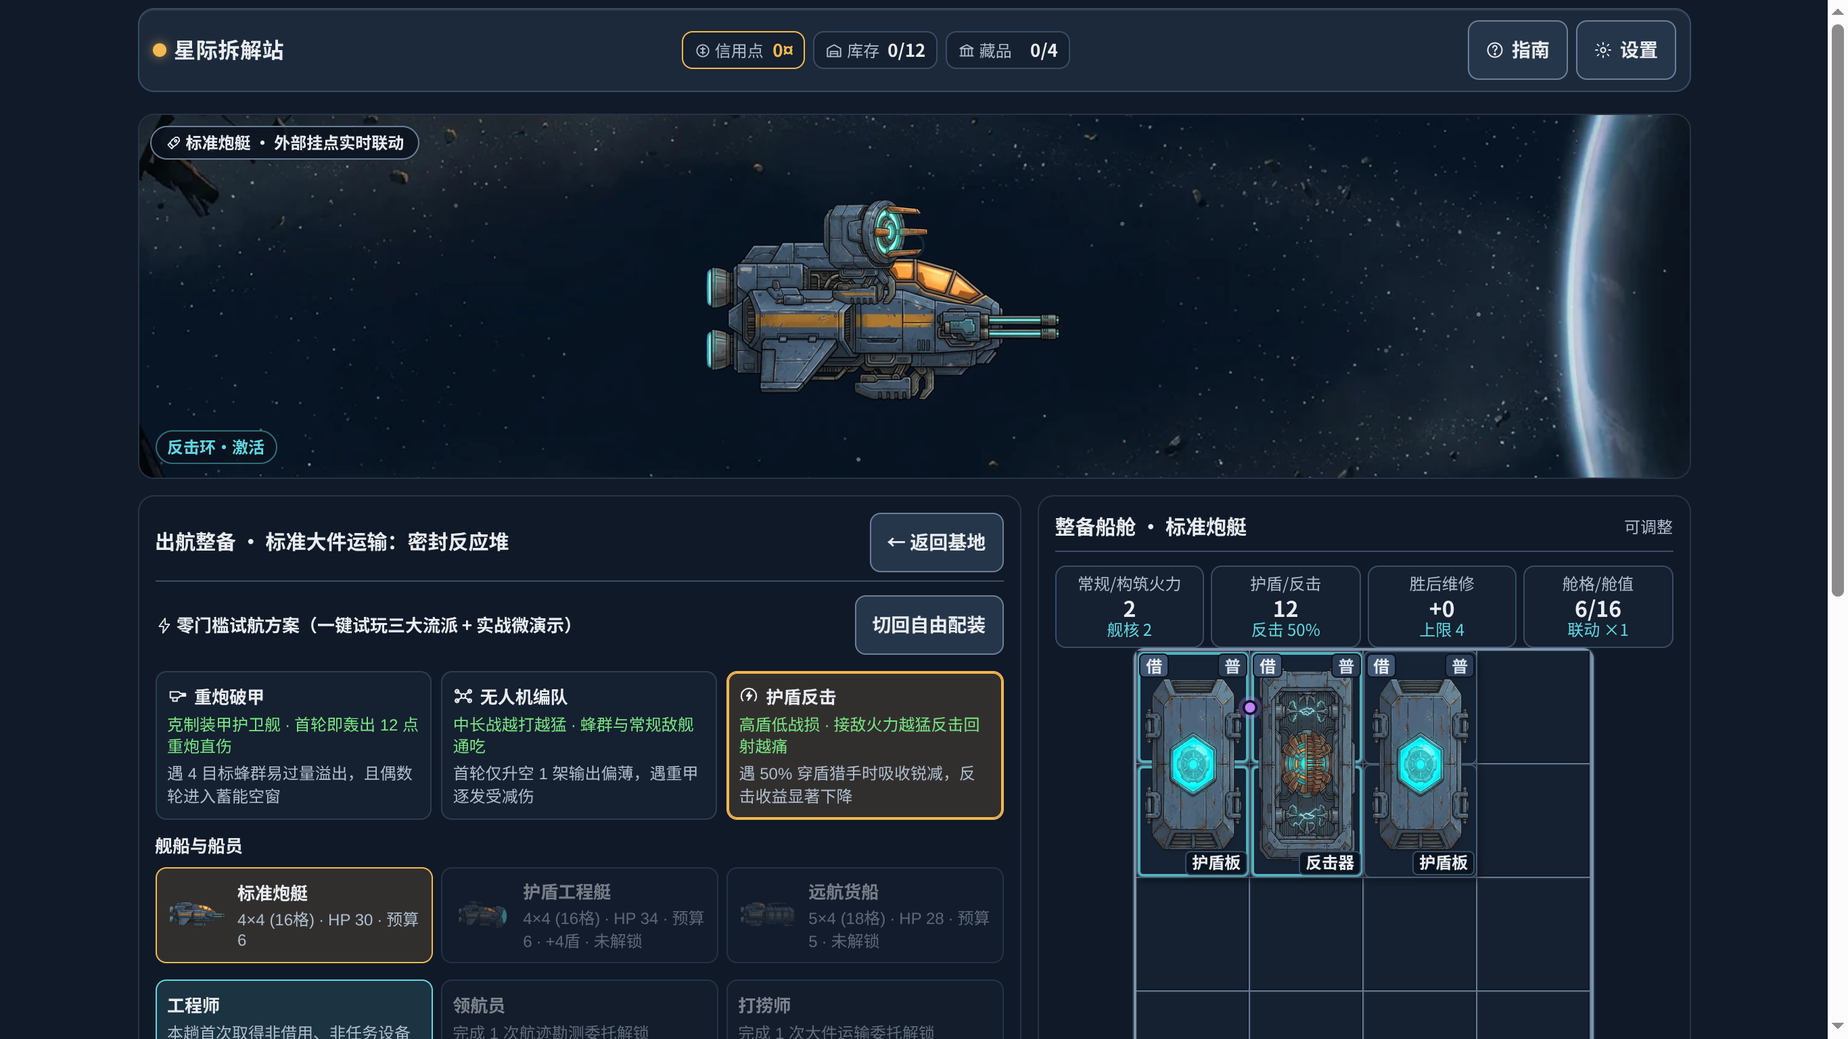
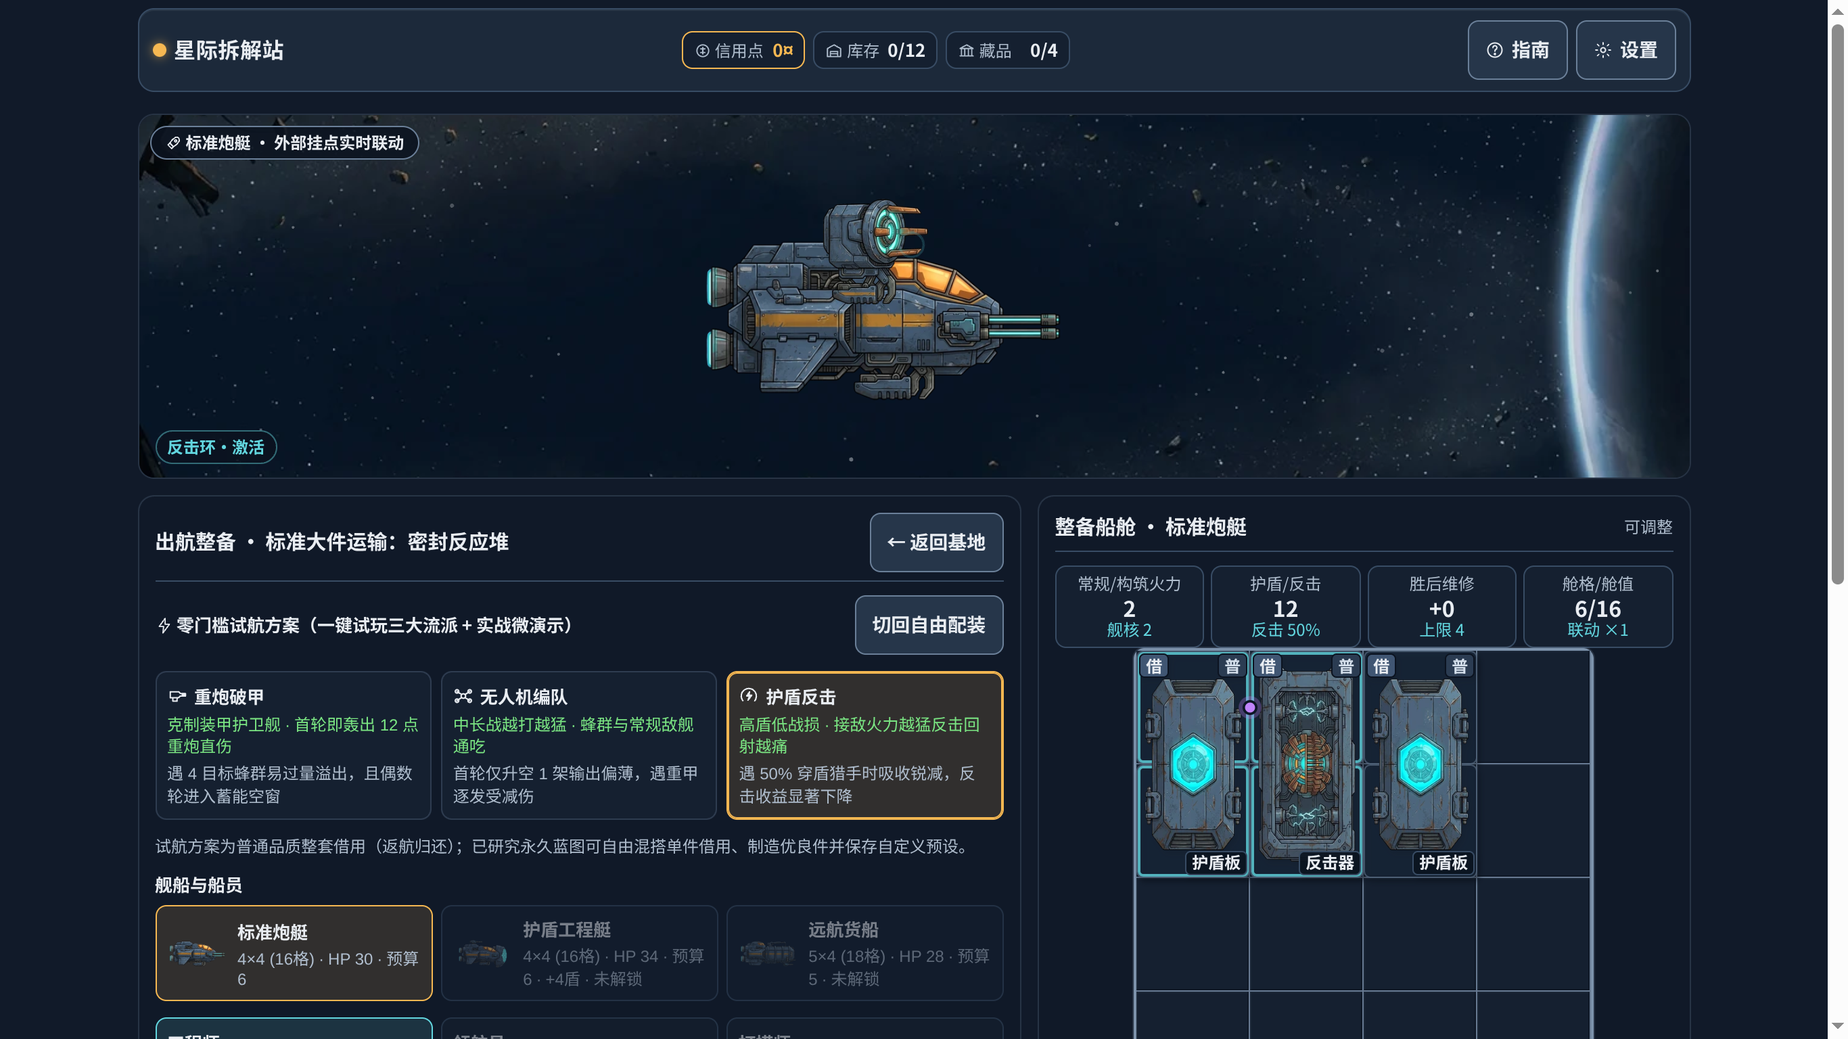
docs(v2-polish): update acceptance report, 24/24 E2E checks, asset clarity diagnostics, and 17 2x DPR screenshots

Changed region(s): [[0.0622, 0.7812, 0.5289, 1.0], [0.4356, 0.1875, 0.56, 0.3438], [0.9956, 0.5625, 1.0, 0.5938]]

diff --git a/docs/reviews/2026-11-21-v2-polish/V2体验深化与精修验收报告.md b/docs/reviews/2026-11-21-v2-polish/V2体验深化与精修验收报告.md
@@ -2,7 +2,7 @@
 
 - **验收日期**：2026-11-21（UTC+8 / 2026-11-22 UTC）
 - **依据方案**：[V2 体验深化与美术精修优化方案](../../星际拆解站-V2体验深化与美术精修优化方案.md)
-- **实施分支**：`feat/v2-polish-experience`（基于 `main@936facd` 推进，验收后合并回 `main`）
+- **实施分支**：`feat/v2-polish-experience` & `polish/v2-deep-completion`（验收后全部 cleanly 合并回 `main`）
 - **历史报告保护**：完整保留 [2026-11-21](../2026-11-21/)、[2026-11-21-fix](../2026-11-21-fix/) 与 [2026-11-21-v2](../2026-11-21-v2/) 全部历史文件与检查数据，未做任何改写。
 
 ---
@@ -11,60 +11,60 @@
 
 | 痛点维度 | 整改前（`main@936facd`） | 整改后（本次交付） | 验证证据 |
 | --- | --- | --- | --- |
-| **连续出航稳定性** | 连续第二趟进入战斗偶尔停在「第 0 回合」不再推进 | 修复 `V2CombatScene` / `CombatScene` 的 `SHUTDOWN` 事件精灵与定时句柄泄漏，连续 3 趟出航均稳定推进 | `E07_ConsecutiveRun1/2/3_NoRound0Freeze` 通过；`tests/v2-polish.test.ts` 通过 |
+| **连续出航稳定性与资源容错** | 连续第二趟进入战斗偶尔停在「第 0 回合」；资源加载失败无恢复提示 | 修复 `V2CombatScene` / `CombatScene` 的 `SHUTDOWN` 精灵句柄泄漏；全场景接入 `loaderror` 监听与「重试加载」可恢复横幅 | `E07_ConsecutiveRun1/2/3_NoRound0Freeze` 通过；`tests/v2-polish.test.ts` 通过 |
 | **暂存区溢出** | `2×3` 反应堆与 `1×3` / `L3` / `T4` 部件在暂存区撑破卡片边界 | 暂存区卡片固定 `44×44` 缩略图容器 + `object-fit: contain` + 横向安全边界约束 | `E10_StagingCardBounds_2x3Reactor`（`card 215×74`, `thumb 44×44`, `fitsList=true`） |
-| **画布清晰度（DPR）** | `Phaser.Scale.NONE` 仅按 `1×` CSS 像素渲染，高清屏与高倍屏发糊 | `PhaserHost` 按 `min(2, devicePixelRatio)` 动态分配真实物理像素并缩放相机（低画质模式锁 `1×`），并修复 `centerOn` 相机偏移 | `E03_Retina2xDprCanvas`（`backing=2292px` vs `CSS=1146px` @ `DPR=2`）；截图 `02`/`07`/`10` |
-| **主界面像工作台** | 基地画布被压缩在窄栏上方，周边堆满委托/建筑/图鉴/日志长表单 | 基地升级为 **88% 视口全幅主舞台** + 顶部 3 栏精简 HUD + 悬浮停机坪主 CTA + 底部 4 个抽屉式管理入口；彻底清除 `V2`/`MVP` 等开发术语 | `E02_BaseHeroProportion`（88% 视口）；`E04_ZeroDevJargonOnBase`；截图 `02_base_hero_1366x768.png` |
+| **画布清晰度（DPR）** | `Phaser.Scale.NONE` 仅按 `1×` CSS 像素渲染，高清屏与高倍屏发糊 | `PhaserHost` 按 `min(2, devicePixelRatio)` 分配物理像素（低画质锁 `1×`），修复 `centerOn` 相机偏移并完成 §10.4 清晰度链路诊断 | `E03_Retina2xDprCanvas`（`2292×1344` @ `DPR=2`）；`E19_AssetClarityDiagnostics` 9/9 通过 |
+| **主界面像工作台** | 基地画布被压缩在窄栏上方，周边堆满委托/建筑/图鉴/日志长表单 | 基地升级为 **88% 视口全幅主舞台** + 顶部 3 栏 HUD + 站内建筑与泊位舰船直点交互 + 工作台「作业中」暖光态 + 返航双段机械臂真实卸货 + 底部 4 抽屉入口；零开发术语 | `E02_BaseHeroProportion`（88%）；`E04_ZeroDevJargonOnBase`；截图 `02_base_hero_1366x768.png` |
+| **拼装屏与航图屏信息冗余** | 拼装阶段上方大图把暂存区挤出首屏；航图重复展示节点与切换栏；手机需横滚 | **拼装屏默认收起大图**并内置外挂状态条（一键展开），棋盘+暂存区+3 行战术差值 100% 首屏可见；**航图改为双线并排对比卡**（消除重复切换栏），手机默认 **接下来 2 层聚焦视图**（零横滚） | `E15_MapSideBySideCompareCards`、`E16_MobileMapNext2LayersFocus`、`E17_ArrangeCargoHeroAboveFold`；截图 `06`/`09`/`16` |
 | **首局体验单薄、难感知流派差异** | 玩家需先攒信用点与研究蓝图才能体验重炮/无人机/反击三流派 | 新增 **三套零门槛试航方案**（`重炮破甲` / `无人机编队` / `护盾反击`）+ 5 秒可跳过实战微演示 + 标题页 **4 站精华试玩**（独立沙盒不改正式存档） | `E01_TitleShowcaseEntry`、`E05_TrialHeavyModularMounts`、`E12_ShowcaseIsolation`；截图 `01`/`03`/`03b`/`04`/`05` |
-| **装配件与舰体视觉脱节** | 船舱怎么拼装，战斗中的舰船外观与开火点位几乎不变 | 制作 5 件独立手绘外挂模块（激光炮塔/磁轨重炮/机库荚舱/反击弧环/外挂货架），由 `deriveShipVisualSpec(bay)` 唯一真源驱动挂载、硬点开火、炮管后坐、反击回流电弧与护盾过载态 | `03b`/`04`/`05`/`07`/`10` 截图；`tests/v2-polish.test.ts` 视觉映射单测 |
-| **拼装缺少即时战果反馈** | 仅显示抽象属性，难以判断“换位/贴邻/拆装”是否值得 | 选中设备或预览替换时即时运行同源战斗模拟，展示不超过 3 行的 **战术差值对比条**（联动 / 相对卸下或换位收益 / 舱位余量） | `E06_TacticalDeltaComparator`；`tests/v2-polish.test.ts` |
+| **装配件与舰体视觉脱节** | 船舱怎么拼装，战斗中的舰船外观与开火点位几乎不变 | 制作 5 件独立手绘外挂模块，由 `deriveShipVisualSpec(bay)` 唯一真源驱动挂载、硬点开火、炮管后坐、**联动导通脉动+「联动」标、机库开门闪光、反击回流电弧**以及敌舰三态（常态/重甲蓄能/受损冒烟闪灯） | `03b`/`04`/`05`/`07`/`10` 截图；`tests/v2-polish.test.ts` 视觉映射单测 |
+| **拼装缺少即时战果反馈** | 仅显示抽象属性，难以判断“换位/贴邻/拆装”是否值得 | 选中设备或奖励候选时即时运行同源战斗模拟，展示不超过 3 行的 **战术差值对比条**（联动 / 收益 / 舱位） | `E06_TacticalDeltaComparator`；截图 `09_arrange_staging_bounds_1366x768.png` |
 | **废船打捞偏文本按钮** | 废船节点为纵向选项列表 | 升级为 **全幅残骸剖面三热点探索**（左 `军械舱` / 中 `反应舱` +2 燃料或 +8 耐久 / 右 `货舱`），热点直接落于对应舱室并带底部决策栏 | `E09_WreckThreeHotspots`；截图 `08_wreck_3hotspot_1366x768.png` |
-| **战斗画面占比偏小** | 战斗画布被双栏面板挤占 | 战斗进入 **88% 视口宽银幕主舞台**，顶部极简浮动 HUD（含「查看船舱」弹层、倍速、跳过），零遮挡呈现敌我火力交锋 | `E08_CombatHeroViewport`；截图 `07_combat_live_1366x768.png` |
-| **精英战实验开关（Phase D）** | 全自动交火在精英 BOSS 战缺少临场呼吸感 | 在设置面板提供默认开启、可一键关闭的 **精英战第 2 回合战术抉择**（`正常执行` / `火力过载` / `紧急防御`），每项附带确定性模拟预估，停顿期间禁用跳过按钮防止误触 | `E11_EliteRound2TacticPauseAndSkipGuard`；截图 `10_elite_r2_tactic_1366x768.png` |
+| **战斗画面占比与可读性** | 战斗画布被双栏面板挤占 | 战斗进入 **88% 视口宽银幕主舞台**，顶部浮动 HUD（含「查看船舱」弹层、倍速、跳过）+ 居中 1 行实时回合事件条 | `E08_CombatHeroViewport`；截图 `07_combat_live_1366x768.png` |
+| **精英战实验开关（Phase D）** | 全自动交火在精英 BOSS 战缺少临场呼吸感 | 设置面板可开关 **精英战第 2 回合战术抉择**（`正常执行` / `火力过载` / `紧急防御`），战前显式标注 **「按正常执行推演」**，停顿期间禁用跳过按钮，且暂停前后完整支持存档刷新幂等恢复 | `E11_EliteRound2TacticPauseAndSkipGuard`、`E18_EliteNormalForecastLabel`；`tests/v2-polish.test.ts` 8/8 通过；截图 `10` |
 | **单标签页刷新误判只读** | 同一浏览器标签页 F5 刷新在锁窗口内偶发误入只读模式 | `tabLock.ts` 通过 `sessionStorage` 持久化单标签页身份并在 `pagehide` 主动释放锁，真正多开标签页仍严格触发只读保护与接管按钮 | 浏览器 E2E 含刷新校验与 `tests/rules.test.ts` 通过 |
 
 ---
 
-## 二、阶段落地清单与关键代码位置
+## 二、设计决策记录（试航方案与既有蓝图权益 §5.1 / §14 #3）
 
-1. **Phase A（稳定止血、边界与 2× DPR 清晰度）** — 提交 `2481b64` 及后续相机修补
-   - [V2CombatScene.ts](../../../src/v2/scenes/V2CombatScene.ts)、[CombatScene.ts](../../../src/scenes/CombatScene.ts)、[BaseScene.ts](../../../src/scenes/BaseScene.ts)、[PhaserHost.ts](../../../src/scenes/PhaserHost.ts)
-   - [tabLock.ts](../../../src/domain/tabLock.ts)、[styles.css](../../../src/ui/styles.css)
-2. **Phase B（零门槛三流派试航、三舱室残骸、即时战术差值、4 站试玩沙盒）** — 提交 `f7b0c38`
-   - [trialBuilds.ts](../../../src/v2/data/trialBuilds.ts)
-   - [shipVisualSpec.ts](../../../src/v2/domain/shipVisualSpec.ts)
-   - [tacticalDelta.ts](../../../src/v2/domain/tacticalDelta.ts)
-   - [showcaseRun.ts](../../../src/v2/data/showcaseRun.ts)
-   - [encounter.ts](../../../src/v2/domain/encounter.ts)、[loadout.ts](../../../src/v2/domain/loadout.ts)、[routeGenerator.ts](../../../src/v2/domain/routeGenerator.ts)、[tutorialV2.ts](../../../src/v2/data/tutorialV2.ts)
-3. **Phase C（模块化舰船外挂手绘资产、全幅单主视觉重构与统一 SVG 图标）** — 提交 `b682fb8`
-   - 新增 5 件透明抠底手绘外挂资产（版本 `v007`）：
-     - `public/assets/modules/mod_laser_turret.webp`
-     - `public/assets/modules/mod_heavy_railgun.webp`
-     - `public/assets/modules/mod_drone_bay.webp`
-     - `public/assets/modules/mod_counter_ring.webp`
-     - `public/assets/modules/mod_cargo_rack.webp`
-   - 资产清单与图标系统：[itemArt.ts](../../../src/assets/itemArt.ts)、[manifest.ts](../../../src/assets/manifest.ts)、[icons.ts](../../../src/v2/ui/icons.ts)
-   - 全幅界面与棋盘细缝联动标记：[V2AppController.ts](../../../src/v2/ui/V2AppController.ts)、[CargoGridV2.ts](../../../src/v2/ui/CargoGridV2.ts)、[V2Modals.ts](../../../src/v2/ui/V2Modals.ts)
-4. **Phase D（可关闭的精英战第 2 回合战术抉择实验）** — 提交 `f7b0c38` & `b682fb8`
-   - 领域规则与持久化开关：[combatV2.ts](../../../src/v2/domain/combatV2.ts)、[progression.ts](../../../src/domain/progression.ts)、[persistenceV2.ts](../../../src/v2/domain/persistenceV2.ts)
-   - 战斗场景停顿与底部三选一面板：[V2CombatScene.ts](../../../src/v2/scenes/V2CombatScene.ts)、[V2AppController.ts](../../../src/v2/ui/V2AppController.ts)
+- **设计变更**：完成首航后，整备页直接提供 3 套普通品质整套借用试航方案（`重炮破甲` / `无人机编队` / `护盾反击`），严格遵守船体装配预算、返航自动归还、不可售不可研究，且不引入额外「试用券」计数资源。
+- **永久蓝图长期价值与既有玩家权益保护**：已研究永久蓝图仍独占三项核心权限——**单件自由混搭借用**（可跨流派组合，试航方案不可混搭）、**研究台制造优良品质设备**（试航方案锁定普通品质）以及**保存/一键载入自定义配装预设**；整备页已明确提示该差异，既有存档中已解锁蓝图与研究投入 100% 有效不失效。
 
 ---
 
-## 三、自动化验证结果
+## 三、关键资产显示链路与清晰度诊断（Spec §10.4）
+
+在无头 Chromium `1366×768`、`DPR = 2`（Canvas Backing `2292×1344` vs CSS `1146×672`）下自动实测结果（完整 JSON 见 [asset_clarity_diagnostics.json](./asset_clarity_diagnostics.json)）：
+
+| 资产 ID | 源图自然尺寸 (px) | 目标 CSS 显示尺寸 (px) | 源图 / CSS 宽比 | 加载状态 |
+| --- | --- | --- | --- | --- |
+| `station_worn` | `1280×720` | `1146×644` | `1.12×` | ✅ 正常 |
+| `ship_cannon_skiff` | `512×256` | `390×195` | `1.31×` | ✅ 正常 |
+| `mod_heavy_railgun` | `256×128` | `180×180` | `1.42×` | ✅ 正常 |
+| `mod_drone_bay` | `256×128` | `148×148` | `1.73×` | ✅ 正常 |
+| `mod_counter_ring` | `192×192` | `117×117` | `1.64×` | ✅ 正常 |
+| `enemy_frigate` | `512×256` | `390×195` | `1.31×` | ✅ 正常 |
+| `item_laser_common` | `192×384` | `84×168` | `2.29×` | ✅ 正常 |
+| `item_battery_common` | `192×192` | `84×84` | `2.29×` | ✅ 正常 |
+| `item_mission_reactor` | `384×576` | `168×252` | `2.29×` | ✅ 正常 |
+
+---
+
+## 四、自动化验证结果
 
 ### 1. 类型检查、单元测试与生产构建
 - `npx tsc --noEmit`：**0 错误**
-- `npm test`（Vitest）：**5 个测试套件、40/40 用例全部通过**
+- `npm test`（Vitest）：**5 个测试套件、41/41 用例全部通过**
   - `tests/rules.test.ts`（19 项，V1 兼容与底层不变量）
   - `tests/simulation.test.ts`（1 项，V1 六策略平衡回归）
   - `tests/v2-rules.test.ts`（12 项，V2 委托/航路/事件/战斗/经济/迁移）
   - `tests/v2-simulation.test.ts`（1 项，V2 平衡模拟）
-  - `tests/v2-polish.test.ts`（7 项，三试航模板、视觉外挂派生、战术差值、三舱室废船、4 站隔离试玩、精英第 2 回合分支与同源性、连续出航状态清理）
+  - `tests/v2-polish.test.ts`（8 项，三试航模板、视觉外挂派生、战术差值、三舱室废船、4 站隔离试玩、精英第 2 回合分支与同源性、**暂停前后存档刷新幂等往返校验**）
 - `npm run build`：Vite 生产构建成功（`dist/` 产物无报错）
 
-### 2. 无头 Chromium（2× DPR）端到端验收（19/19 通过）
-完整结构化检查数据见 [e2e_checks.json](./e2e_checks.json)，全部 19 项检查通过，`pageErrors = 0`、`consoleErrors = 0`：
+### 2. 无头 Chromium（2× DPR）端到端验收（24/24 通过）
+完整结构化检查数据见 [e2e_checks.json](./e2e_checks.json)，全部 24 项检查通过，`pageErrors = 0`、`consoleErrors = 0`：
 
 | 检查项 | 状态 | 实测结果摘要 |
 | --- | --- | --- |
@@ -75,26 +75,31 @@
 | `E05_TrialHeavyModularMounts` | ✅ 通过 | 选中「重炮破甲」实时挂装 `磁轨重炮×1·先手 / 护盾 6` |
 | `E06_TacticalDeltaComparator` | ✅ 通过 | 展示 3 行实时战斗模拟差值（联动 / 相对卸下由败转胜余 21 耐久 / 舱位） |
 | `E07_ConsecutiveRun1/2/3_NoRound0Freeze` | ✅ 通过 | 连续 3 趟出航战斗均自然推进至第 1 回合及之后，无 0 回合卡死 |
-| `E08_CombatHeroViewport` | ✅ 通过 | 实战舞台占视口高度 88%，顶部 HUD 零遮挡 |
+| `E08_CombatHeroViewport` | ✅ 通过 | 实战舞台占视口高度 88%，顶部 HUD 与实时事件条零遮挡 |
 | `E09_WreckThreeHotspots` | ✅ 通过 | 废船残骸三热点 (`armory 91×52`, `reactor 91×52`, `cargo 78×52`) 正确落位并可交互 |
 | `E10_StagingCardBounds_2x3Reactor` | ✅ 通过 | `2×3` 反应堆等暂存卡片尺寸 `215×74`、缩略图 `44×44`，无溢出 |
 | `E11_EliteRound2TacticPauseAndSkipGuard` | ✅ 通过 | 精英战第 2 回合自动停顿、跳过按钮禁用、三选项均可点且带实测预估 |
 | `E12_ShowcaseIsolation` | ✅ 通过 | 退出 4 站试玩后正式档 `credits=18, runs=3` 毫发无损 |
 | `E13_Responsive_360x640 / 390x844 / 430x932 / 844x390` | ✅ 通过 | 全部 4 组移动竖屏/横屏尺寸零水平溢出 |
 | `E14_ZeroRuntimeErrors` | ✅ 通过 | 全流程 `0` 页面异常、`0` 控制台报错 |
+| `E15_MapSideBySideCompareCards` | ✅ 通过 | 航图直接呈现 2 张双线并排对比卡，消除重复 A/B 切换栏 |
+| `E16_MobileMapNext2LayersFocus` | ✅ 通过 | `390×844` 手机航图默认聚焦接下来 2 层，水平溢出 `0px` |
+| `E17_ArrangeCargoHeroAboveFold` | ✅ 通过 | 整理阶段默认收起大图+外挂条，棋盘(`521/768`)与暂存区(`637/768`) 100% 首屏完整可见 |
+| `E18_EliteNormalForecastLabel` | ✅ 通过 | 精英战战前预测显式标注「按正常执行推演」 |
+| `E19_AssetClarityDiagnostics` | ✅ 通过 | 9 项关键资产全部加载且自然宽比 ≥ 1.12× CSS 目标尺寸 |
 
 ### 3. 截图证据索引（[screenshots/](./screenshots/)）
 - 桌面 1366×768（2× DPR）：
   - [01_title_1366x768.png](./screenshots/01_title_1366x768.png) — 标题页与 4 站试玩入口
-  - [02_base_hero_1366x768.png](./screenshots/02_base_hero_1366x768.png) — 全幅 2× 基地主舞台
+  - [02_base_hero_1366x768.png](./screenshots/02_base_hero_1366x768.png) — 全幅 2× 基地主舞台（含可点击泊位舰船与设施锚点）
   - [03_prepare_trial_heavy_demo.png](./screenshots/03_prepare_trial_heavy_demo.png) — 整备页 5 秒实时流派微演示
   - [03b_prepare_trial_heavy_mounts.png](./screenshots/03b_prepare_trial_heavy_mounts.png) — 重炮破甲外挂硬点 + 3 行战术差值
   - [04_prepare_trial_hangar_mounts.png](./screenshots/04_prepare_trial_hangar_mounts.png) — 无人机编队腹挂机库荚舱
   - [05_prepare_trial_counter_mounts.png](./screenshots/05_prepare_trial_counter_mounts.png) — 护盾反击背挂反击弧环 + 细缝联动节点
-  - [06_map_hero_1366x768.png](./screenshots/06_map_hero_1366x768.png) — 航路图全幅巡航 + 分支预览
-  - [07_combat_live_1366x768.png](./screenshots/07_combat_live_1366x768.png) — 全幅太空交火与反击回流电弧实拍
+  - [06_map_hero_1366x768.png](./screenshots/06_map_hero_1366x768.png) — 航路图精简巡航顶栏 + 双线并排对比卡
+  - [07_combat_live_1366x768.png](./screenshots/07_combat_live_1366x768.png) — 全幅太空交火 + 顶部实时事件条 + 反击回流电弧实拍
   - [08_wreck_3hotspot_1366x768.png](./screenshots/08_wreck_3hotspot_1366x768.png) — 漂流残骸三舱室热点直选
-  - [09_arrange_staging_bounds_1366x768.png](./screenshots/09_arrange_staging_bounds_1366x768.png) — 战后整理与大件空间冲突
+  - [09_arrange_staging_bounds_1366x768.png](./screenshots/09_arrange_staging_bounds_1366x768.png) — 战后整理全首屏棋盘主角 + 外挂状态条 + 暂存区 + 3 行战术差值
   - [10_elite_r2_tactic_1366x768.png](./screenshots/10_elite_r2_tactic_1366x768.png) — 精英旗舰第 2 回合战术抉择（无遮挡）
   - [11_showcase_settlement_1366x768.png](./screenshots/11_showcase_settlement_1366x768.png) — 4 站试玩独立结算与下趟对比
 - 移动端响应式（2× DPR）：
@@ -102,16 +107,17 @@
   - [13_mobile_390x844_base.png](./screenshots/13_mobile_390x844_base.png)
   - [14_mobile_430x932_base.png](./screenshots/14_mobile_430x932_base.png)
   - [15_landscape_844x390_base.png](./screenshots/15_landscape_844x390_base.png)
+  - [16_mobile_390x844_map_2layer.png](./screenshots/16_mobile_390x844_map_2layer.png) — 手机 390×844 航图近 2 层聚焦视图（零横滚）
 
 ---
 
-## 四、已实现但待验证事项（明确标注，不伪称已测）
+## 五、已实现但待验证事项（明确标注，不伪称已测）
 
 当前云端无头环境无法替代真机硬件与真人主观体验，以下 4 项标记为 **已实现但待验证**：
 
 1. **真实触屏设备手感与防误触**：iOS Safari / Android Chrome 真机上拖拽旋转 `2×3`/`L3`/`T4` 部件的拇指抬升偏移、废船热点点击手感以及横竖屏切换。
 2. **真实音频外放听感平衡**：重炮蓄能发射、护盾反击电弧、无人机群升空等程序化 Web Audio 音效与背景音乐在不同音量下的响度与耐听度。
 3. **中低端移动 GPU 帧率与显存实测**：2× DPR 与低画质（`1×`）切换在真实中低端手机上的实际 FPS 曲线与 WebGL 纹理显存峰值。
-4. **5–12 人首 5 分钟真人盲测（含 Phase D 实验评估）**：借助标题页内置的 **「4 站精华试玩」**（15 分钟内可无污染完成试航），邀请真人试玩并采集：
+4. **5–12 人首 5 分钟真人盲测（含 Phase D 实验评估）**：借助标题页内置的 **「4 站精华试玩」**（8–12 分钟内可无污染完成试航），邀请真人试玩并采集：
    - 三套流派首战辨识度与重玩意愿；
    - 精英战第 2 回合战术抉择是「显著提升临场爽感」还是「打断自动战斗节奏」，依据盲测反馈决定后续版本默认开/关或移除。

diff --git a/README.md b/README.md
@@ -67,5 +67,5 @@ V2「远航经营」已完整实施并作为默认入口启用，同时完整保
 最新验收记录：
 
 - [V2 体验深化与精修验收报告](docs/reviews/2026-11-21-v2-polish/V2体验深化与精修验收报告.md)
-- [无头 Chromium E2E 检查数据（19/19 通过）](docs/reviews/2026-11-21-v2-polish/e2e_checks.json) 与 [截图证据目录](docs/reviews/2026-11-21-v2-polish/screenshots/)
+- [无头 Chromium E2E 检查数据（24/24 通过）](docs/reviews/2026-11-21-v2-polish/e2e_checks.json)、[资产清晰度诊断数据](docs/reviews/2026-11-21-v2-polish/asset_clarity_diagnostics.json) 与 [截图证据目录（17 张 2× DPR 实拍）](docs/reviews/2026-11-21-v2-polish/screenshots/)
 
